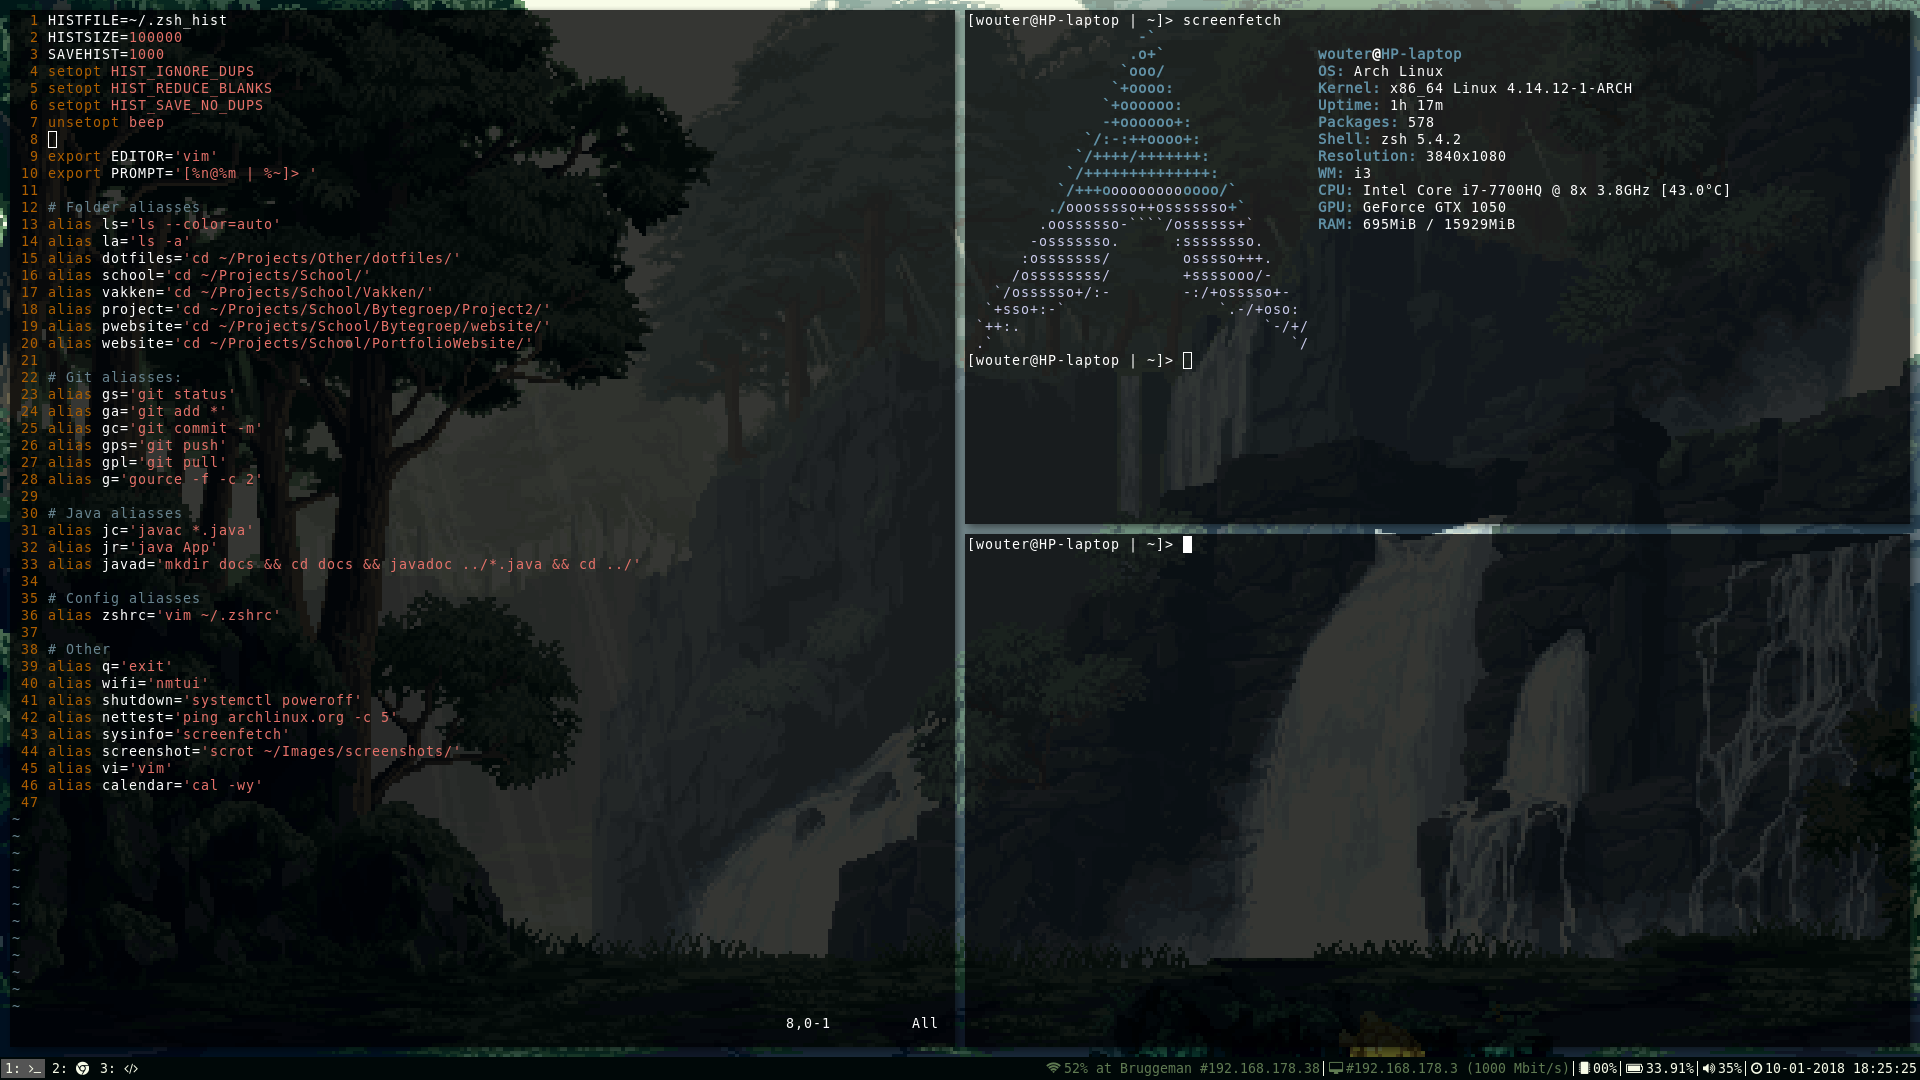
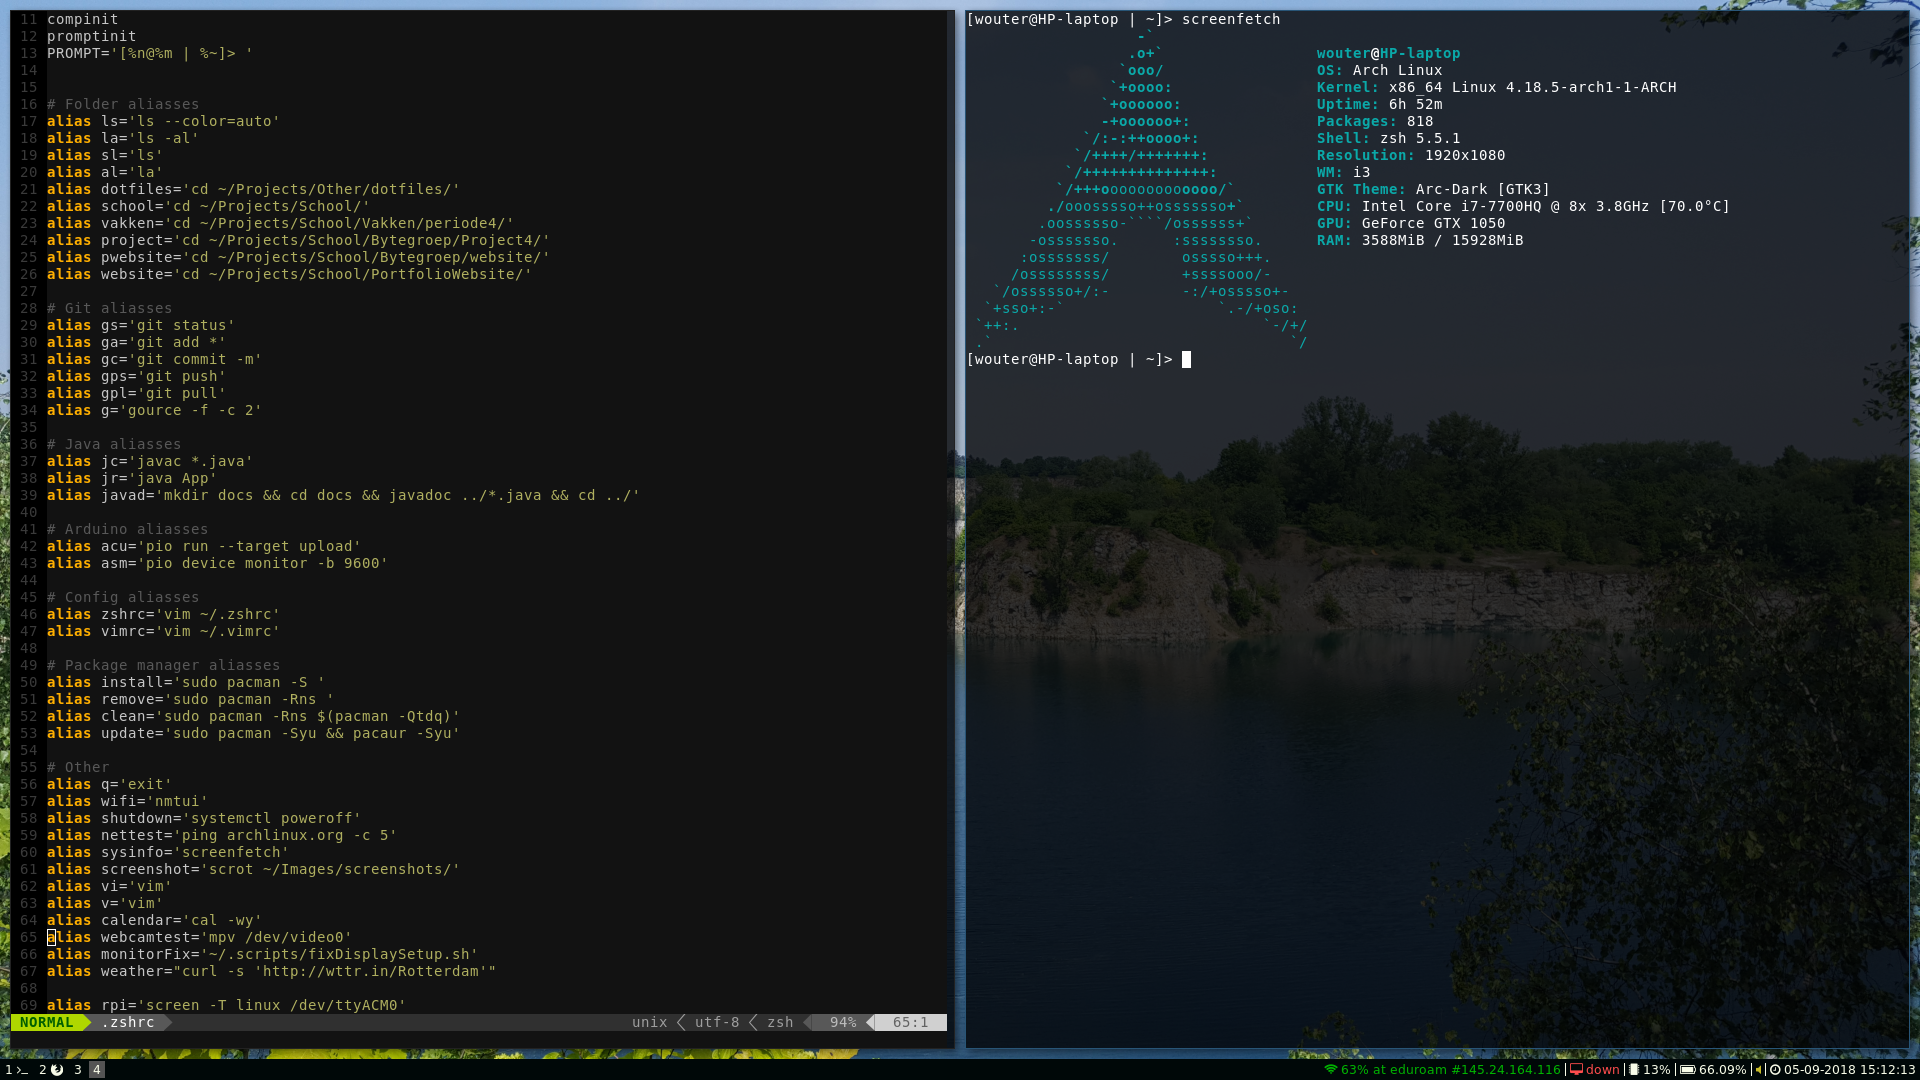
Change README and add new screenshot

diff --git a/README.md b/README.md
@@ -1,9 +1,7 @@
 # Dotfiles
 
-This is my collection of dotfiles and scripts. Currently I'm using arch linux.
+This is my collection of dotfiles and scripts. Currently I'm using Arch Linux.
 Here is a screenshot of my desktop:
 
 ![Desktop](screenshot.png)
-
-As you can see, there is still a lot to do..
 
